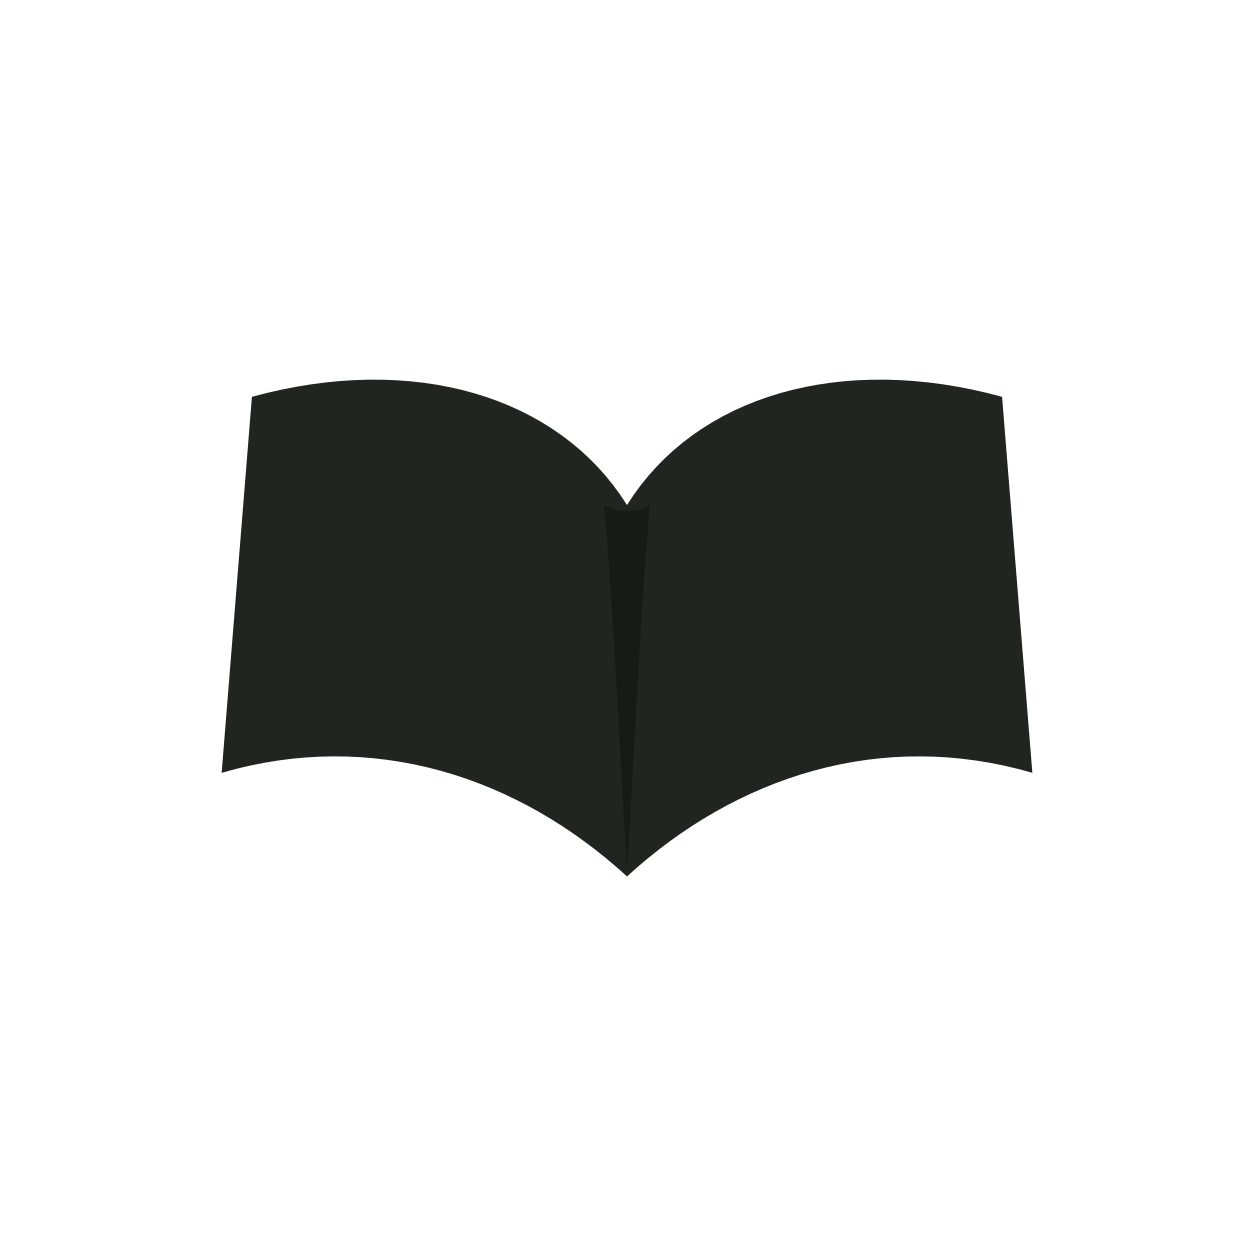
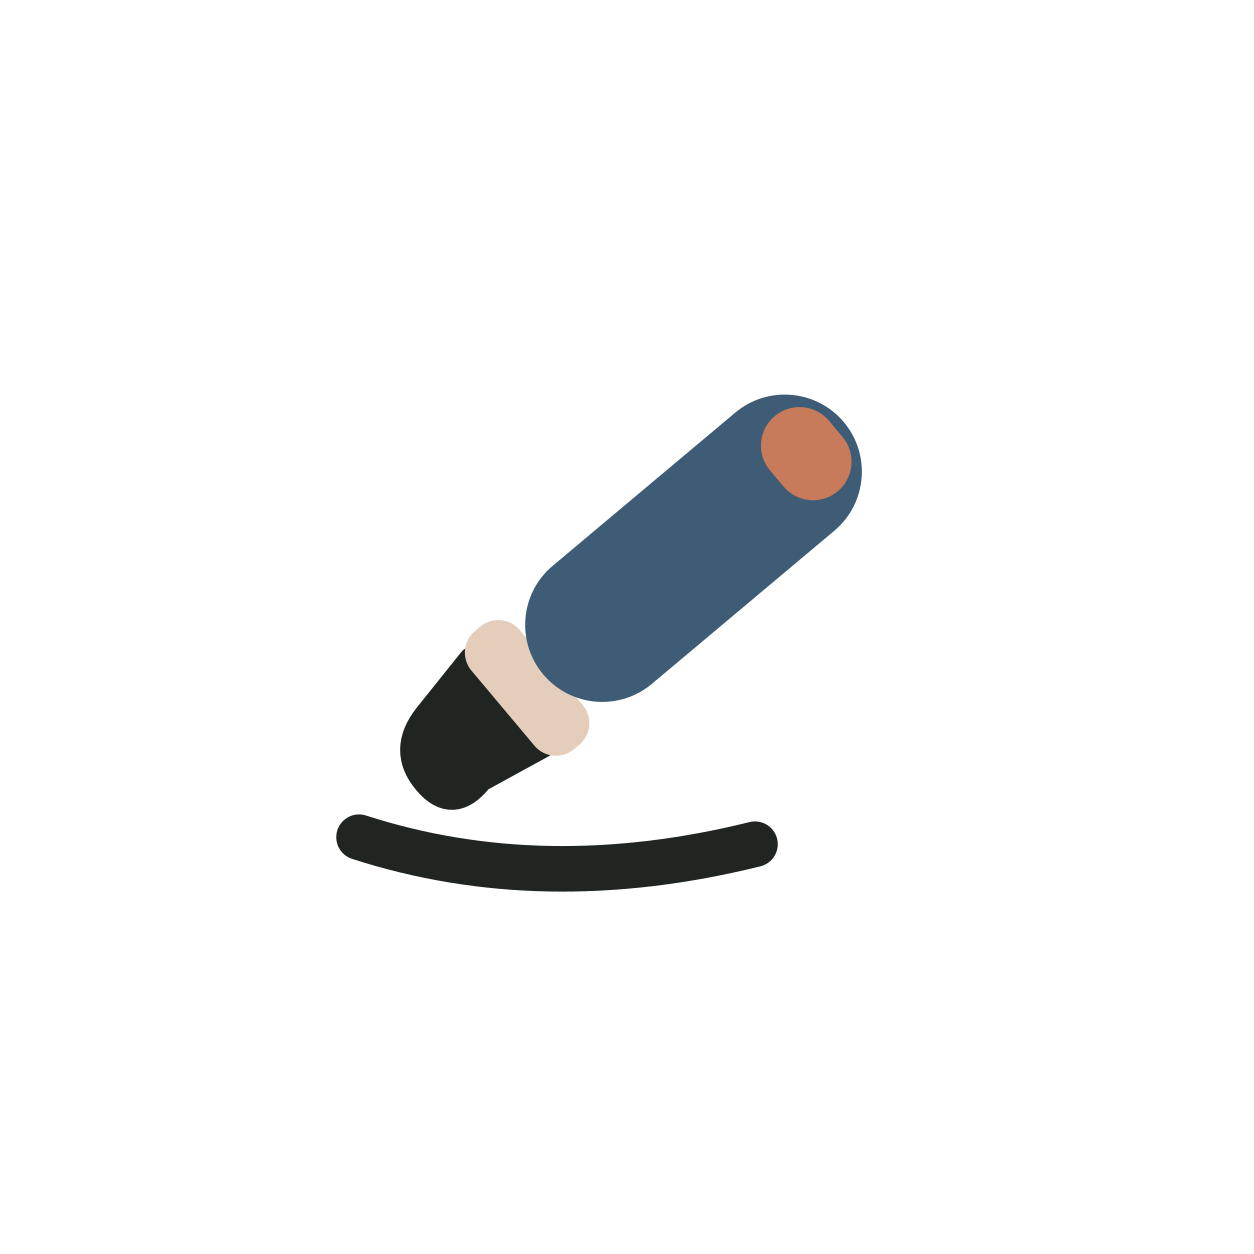
feat(brand): replace the open-book mark with the pen mark

Changed region(s): [[0.1555, 0.2799, 0.8397, 0.7153]]

diff --git a/tests/brand-assets.test.ts b/tests/brand-assets.test.ts
@@ -16,7 +16,7 @@ const sharp = requireFromSrc('sharp') as typeof import('sharp');
 const canvasSize = 1254;
 const paper = [247, 242, 232] as const;
 const ink = [32, 37, 34] as const;
-// #171B18 — the narrow darker center-spine fill declared by the brief.
+// #171B18 — the legacy open-book center-spine fill; must never leak back in.
 const spine = [23, 27, 24] as const;
 const legacyWhaleSha256 =
[1 lines of base64/hex data omitted]
@@ -171,13 +171,16 @@ test('asset check renders temporary output without rewriting tracked assets', as
     }
 });
 
-test('canonical SVG is a flat three-path open book', async () => {
-    const svgPath = path.join(imagesRoot, 'open-book-icon.svg');
+test('canonical SVG is a flat pen mark in the declared palette', async () => {
+    const svgPath = path.join(imagesRoot, 'brand-mark.svg');
     await assertRequiredFileExists(svgPath);
     const svg = await readFile(svgPath, 'utf8');
 
-    assert.match(svg, /<svg\b[^>]*\bviewBox="0 0 1254 1254"/);
-    assert.equal((svg.match(/<path\b/g) ?? []).length, 3);
+    assert.match(svg, /<svg\b[^>]*\bviewBox="0 0 512 512"/);
+    assert.ok(
+        (svg.match(/<path\b/g) ?? []).length >= 1,
+        'canonical mark must be drawn with vector paths',
+    );
 
     for (const forbiddenPattern of [
         /<text\b/i,
@@ -190,6 +193,33 @@ test('canonical SVG is a flat three-path open book', async () => {
         /\bshadow\b/i,
     ]) {
         assert.doesNotMatch(svg, forbiddenPattern);
+    }
+
+    // The pen mark is flat and must stay inside its declared palette so the
+    // generator's string-replace recolors and the pixel assertions below
+    // keep working.
+    const declaredPalette = [
+        '#202522', // ink — nib and written stroke
+        '#3E5C76', // pen blue — body
+        '#E4CDBB', // sand — ferrule
+        '#C77B5A', // terracotta — end cap
+    ];
+    const usedColors = [
+        ...svg.matchAll(/\b(?:fill|stroke)="(#[0-9A-Fa-f]{6})"/g),
+    ].map((match) => match[1]);
+
+    assert.ok(usedColors.length >= 5, 'canonical mark has too few color uses');
+    for (const color of usedColors) {
+        assert.ok(
+            declaredPalette.includes(color),
+            `canonical SVG uses an undeclared color: ${color}`,
+        );
+    }
+    for (const color of declaredPalette) {
+        assert.ok(
+            usedColors.includes(color),
+            `canonical SVG is missing the declared color ${color}`,
+        );
     }
 });
 
@@ -211,7 +241,7 @@ test('every generated PNG is 1254 by 1254 and replaces the whale', async () => {
     }
 });
 
-test('icon and favicon use the warm paper canvas and ink book', async () => {
+test('icon and favicon use the warm paper canvas and pen palette', async () => {
     for (const name of ['icon.png', 'favicon.png'] as const) {
         const filePath = assetPath(name);
         await assertRequiredFileExists(filePath);
@@ -235,6 +265,10 @@ test('icon and favicon use the warm paper canvas and ink book', async () => {
         assert.ok(
             colors.has(ink.join(',')),
             `${name} does not contain the exact ink color`,
+        );
+        assert.ok(
+            colors.has('62,92,118'),
+            `${name} does not contain the pen blue body color`,
         );
     }
 });
@@ -282,9 +316,11 @@ test('splash and adaptive foreground marks have meaningful transparent alpha bou
 });
 
 test('splash marks use the exact ink and warm paper colors', async () => {
-    // The generator recolors the canonical SVG with a silent string replace,
-    // so a changed fill spelling would silently emit an ink book for the dark
-    // splash (or a paper book for the light one). Pin the rendered colors.
+    // The generator recolors the canonical SVG with string replaces, so a
+    // changed fill spelling would silently emit an ink pen for the dark
+    // splash (or a colored pen for the light one). The mark is multi-color:
+    // only the nib + written stroke recolor between splashes, so pin those
+    // with a discriminating floor rather than the old whole-book 100k.
     const light = await readRawPixels(assetPath('splash-icon.png'));
     const lightInkPixels = countExactColorPixels(
         light.data,
@@ -298,7 +334,7 @@ test('splash marks use the exact ink and warm paper colors', async () => {
     );
 
     assert.ok(
-        lightInkPixels >= 100_000,
+        lightInkPixels >= 10_000,
         `splash-icon.png has only ${lightInkPixels} exact ink pixels`,
     );
     assert.equal(
@@ -325,7 +361,7 @@ test('splash marks use the exact ink and warm paper colors', async () => {
     );
 
     assert.ok(
-        darkPaperPixels >= 100_000,
+        darkPaperPixels >= 10_000,
         `splash-icon-dark.png has only ${darkPaperPixels} exact warm paper pixels`,
     );
     assert.equal(
